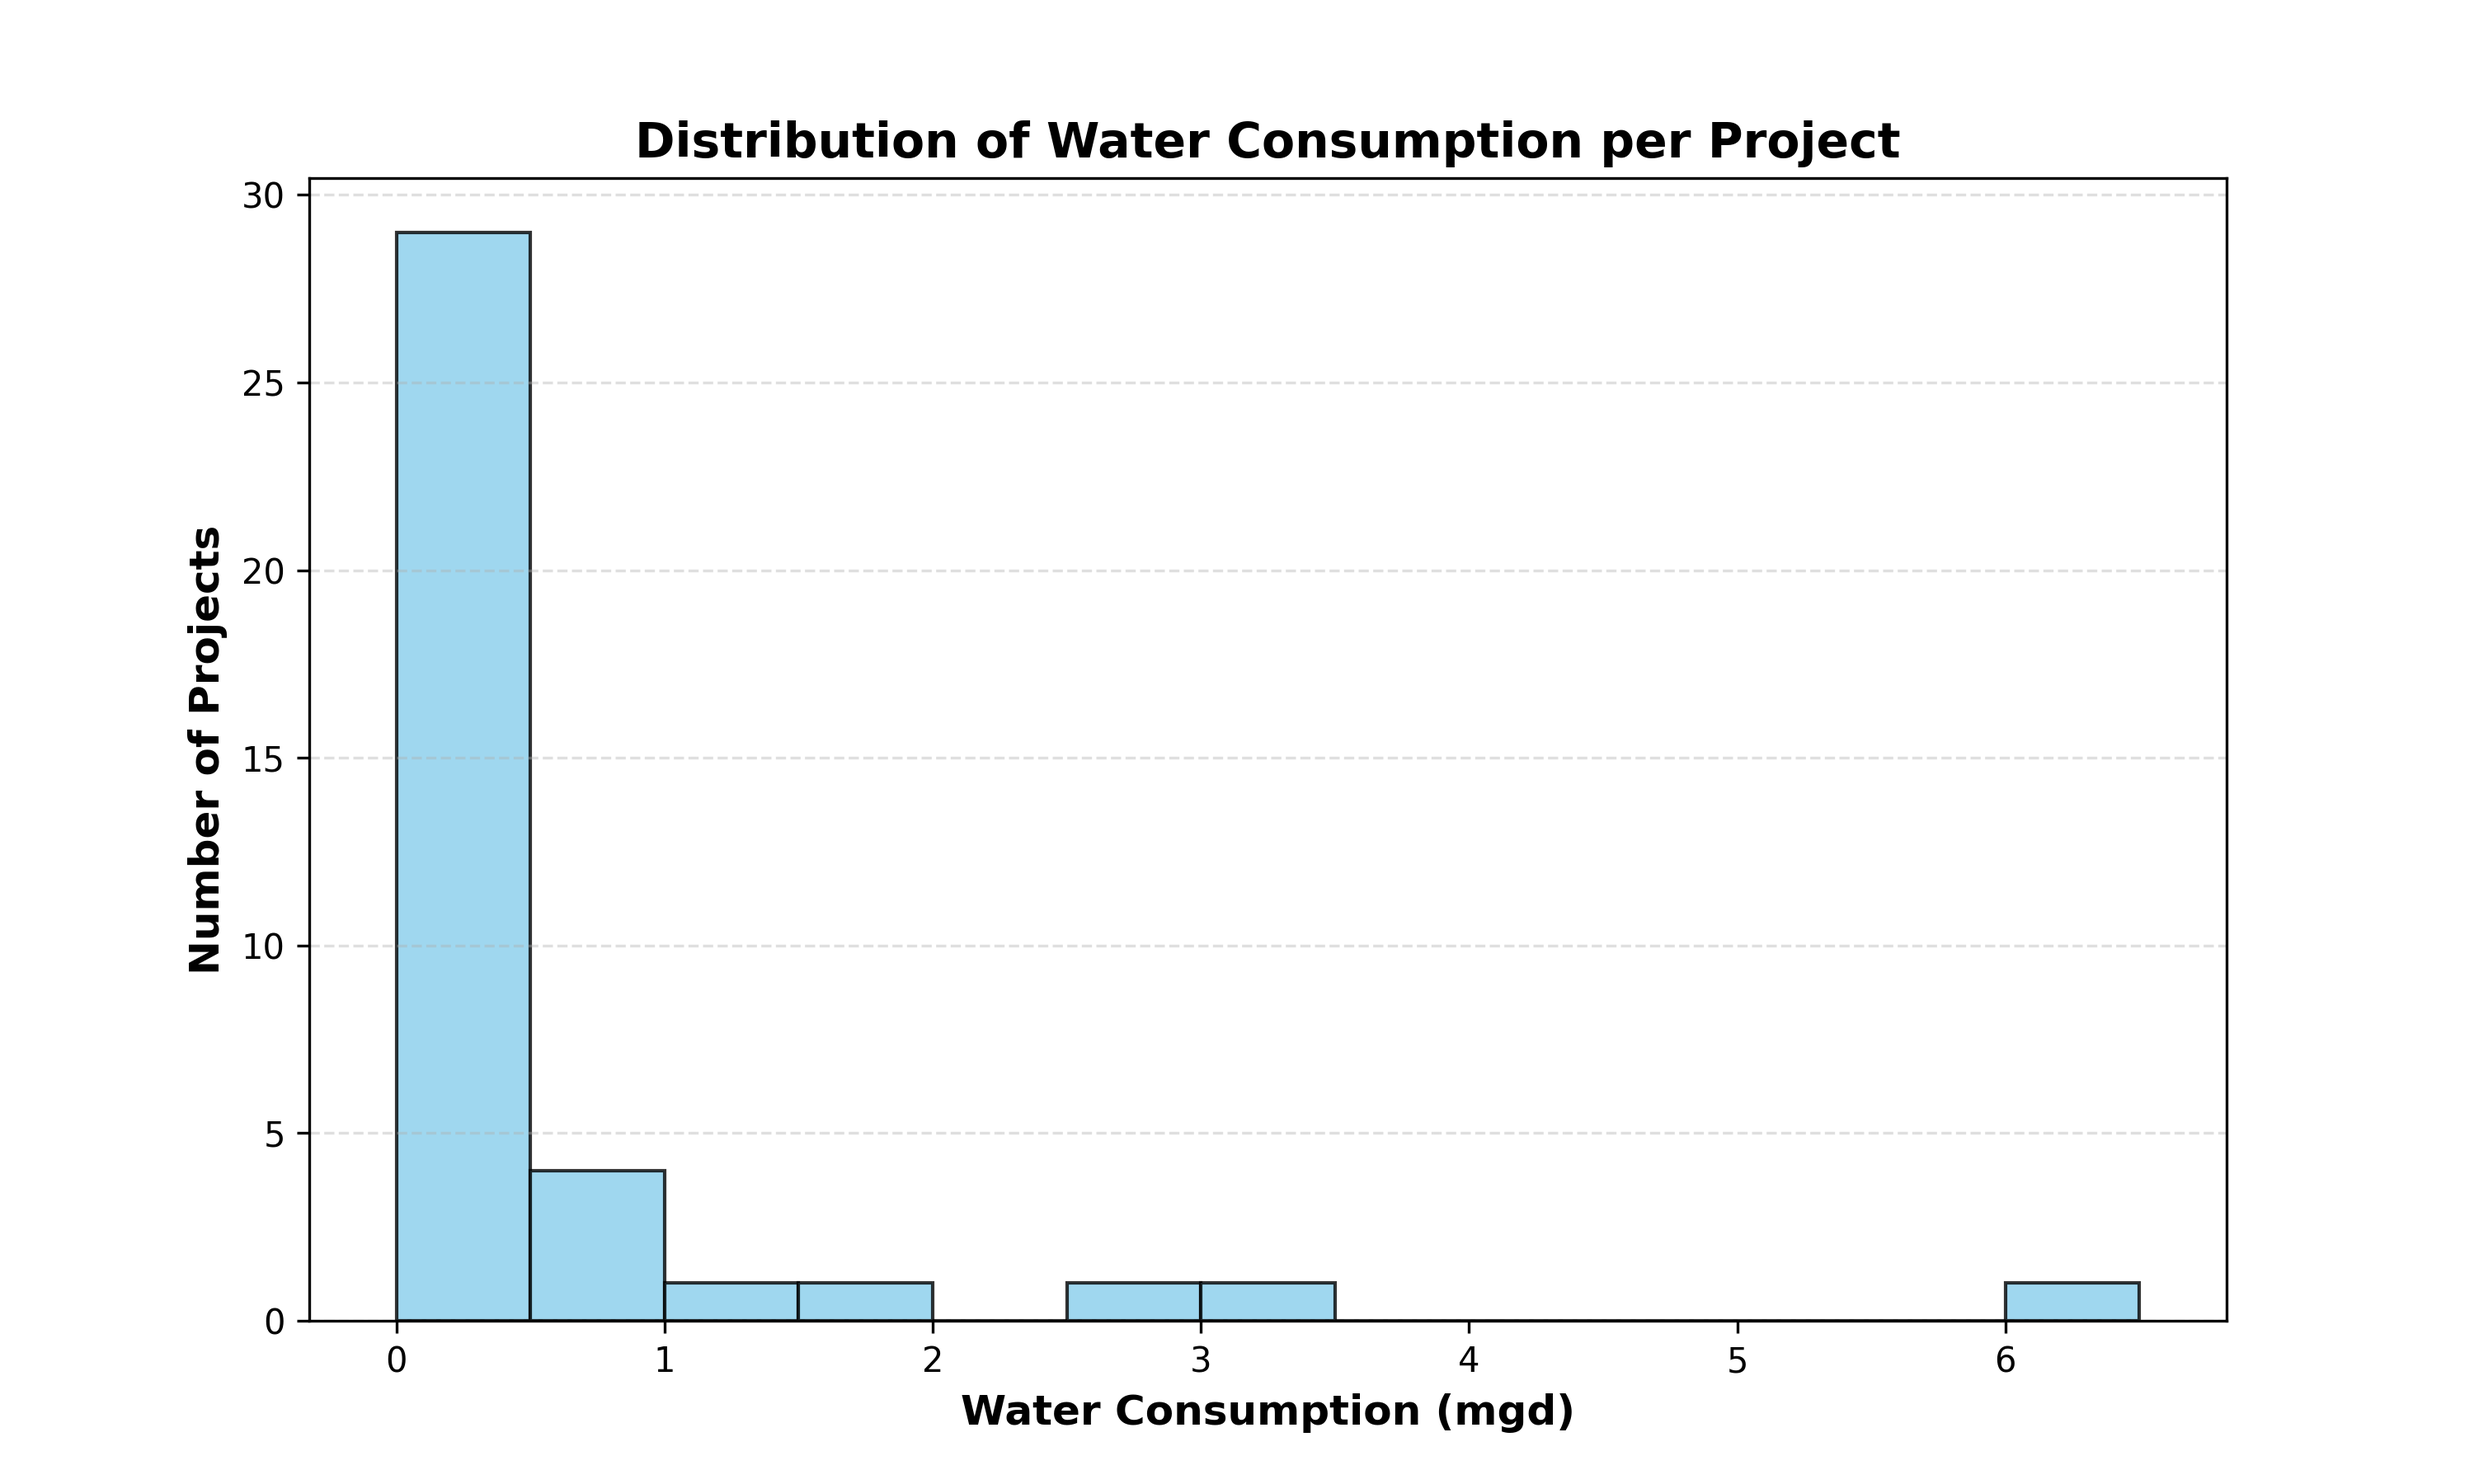
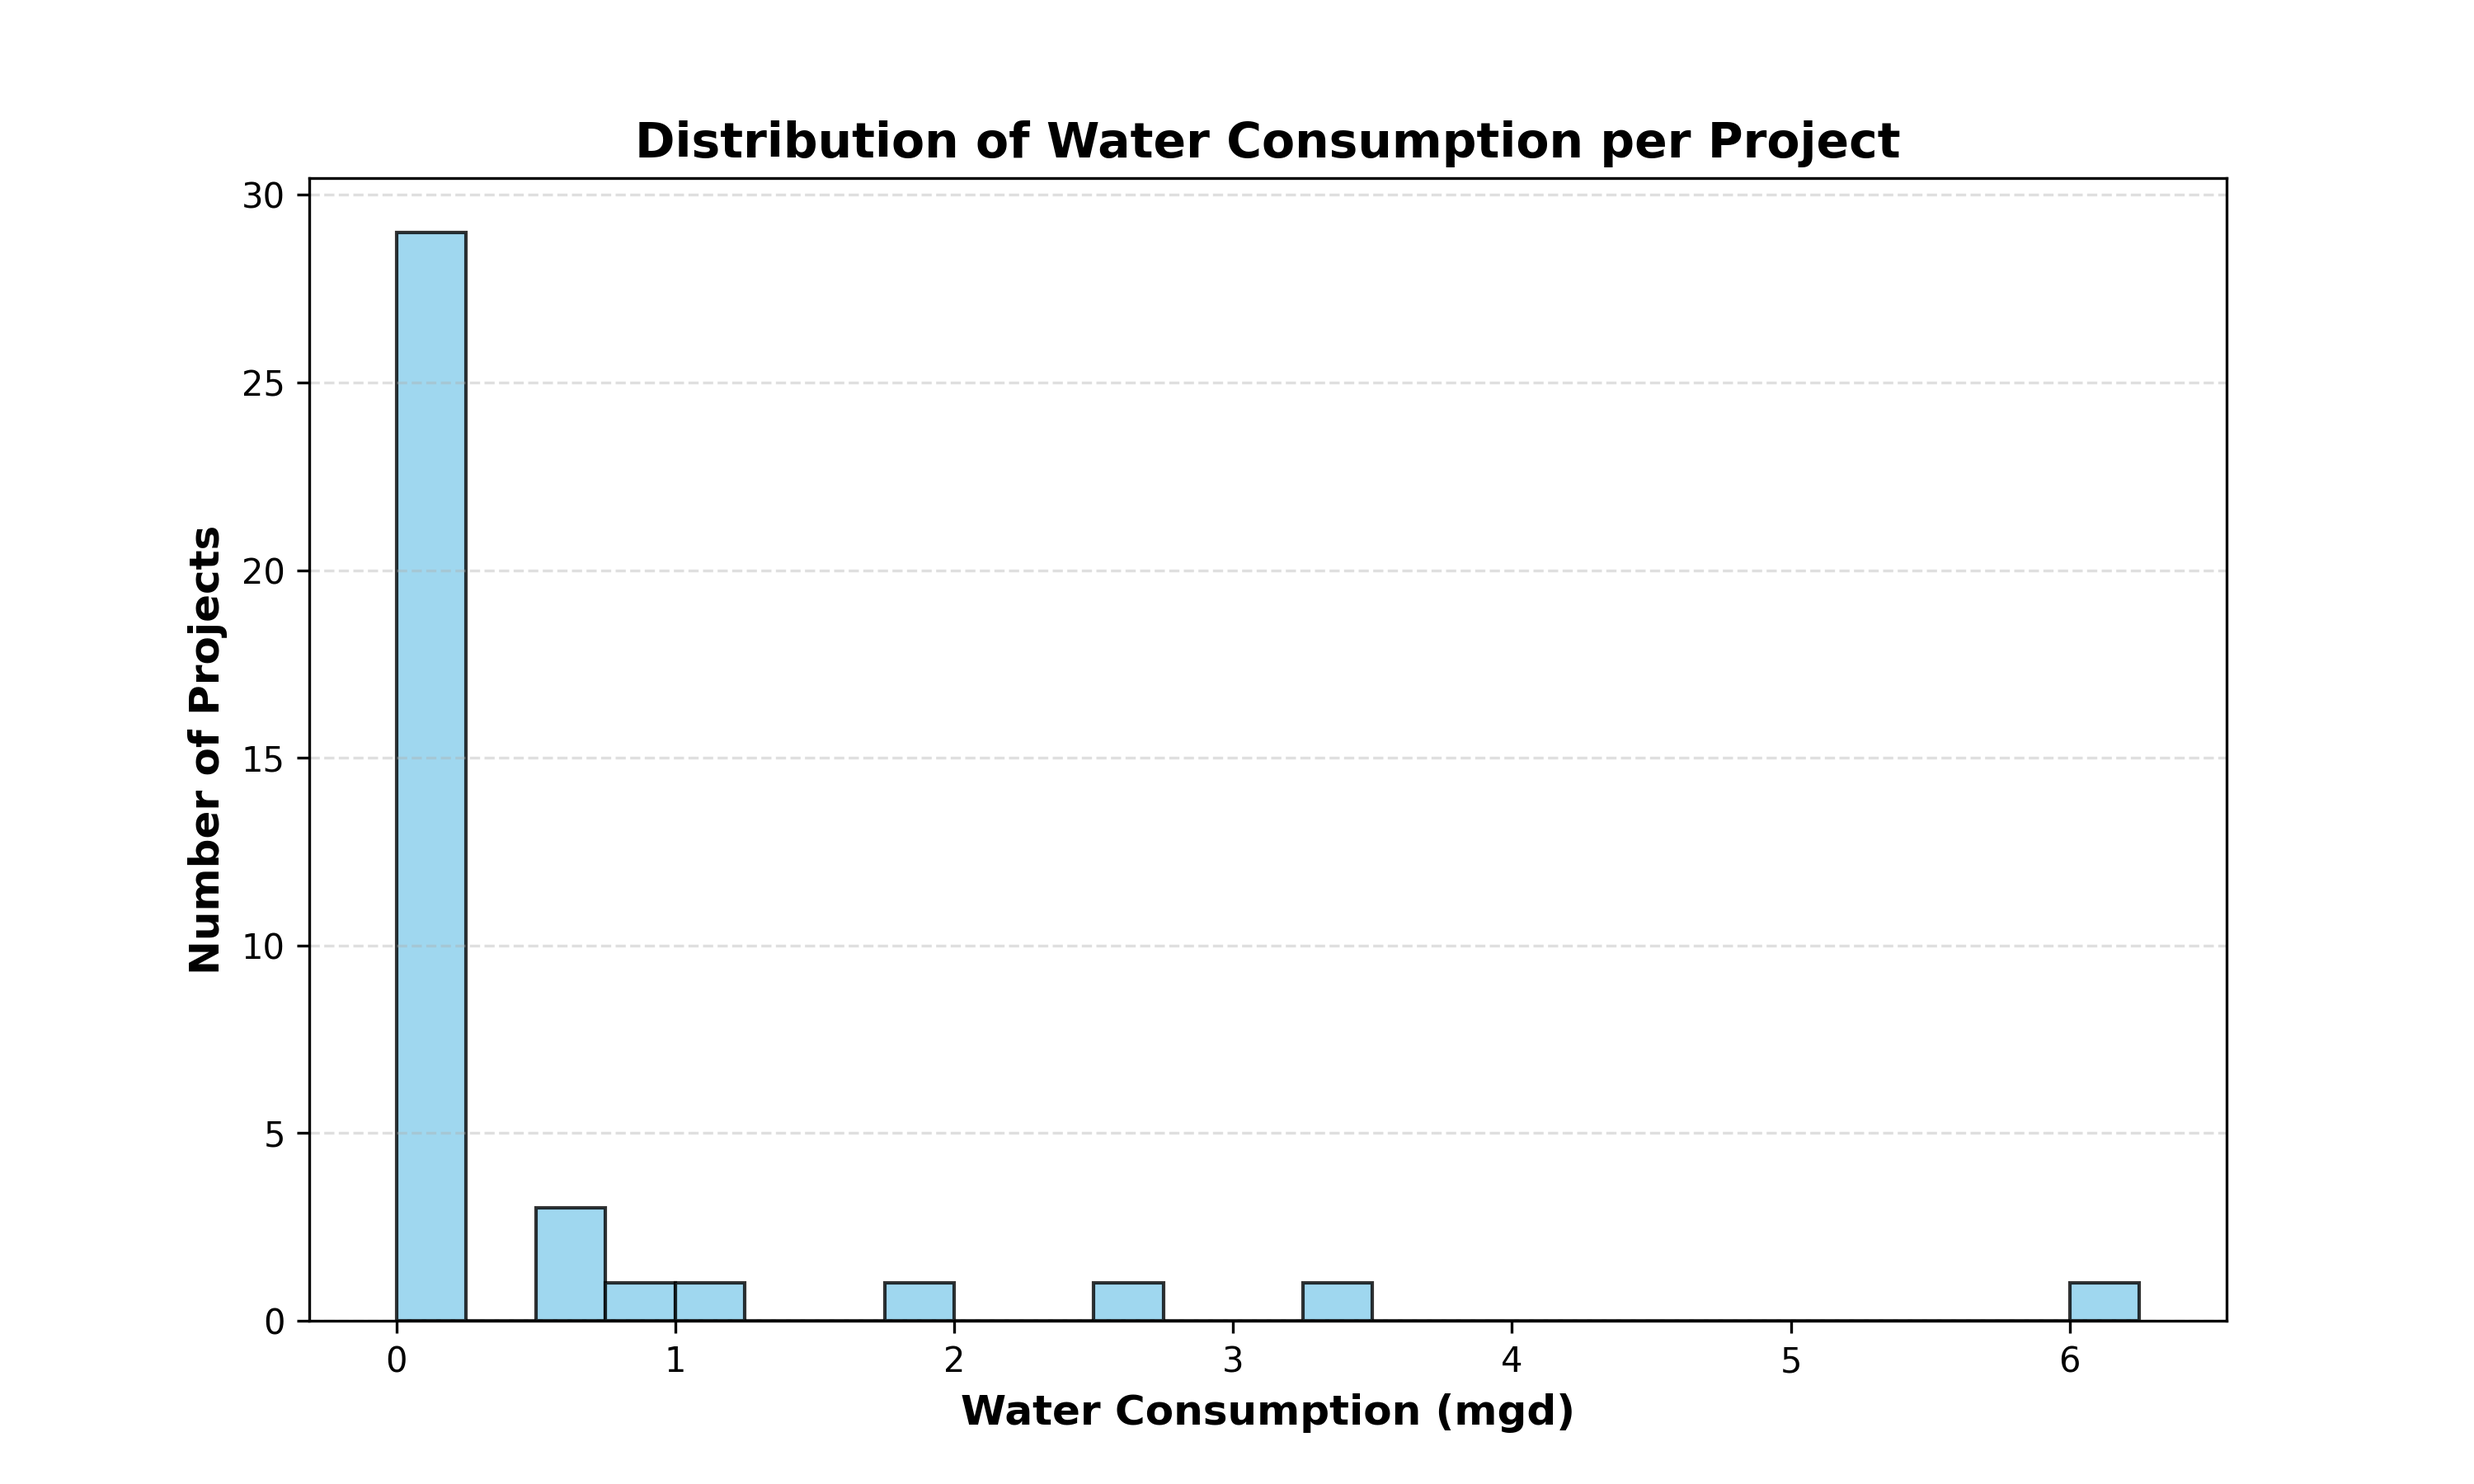
added more buckets to the histogram

diff --git a/Scripts/water_data_visualizations.py b/Scripts/water_data_visualizations.py
@@ -313,7 +313,7 @@ def plot_water_consumption_histogram():
     #xticks = np.arange(0, max_val + bin_width, bin_width)    
 
     # Plot histogram
-    bins = np.arange(0, df["Water Consumption/Loss"].max() + 0.5, 0.5)
+    bins = np.arange(0, df["Water Consumption/Loss"].max() + 0.25, 0.25)
     plt.figure(figsize=(10, 6))
     #plt.hist(df["Water Consumption/Loss"], bins=20, color="skyblue", edgecolor="black", alpha=0.8)
     plt.hist(
